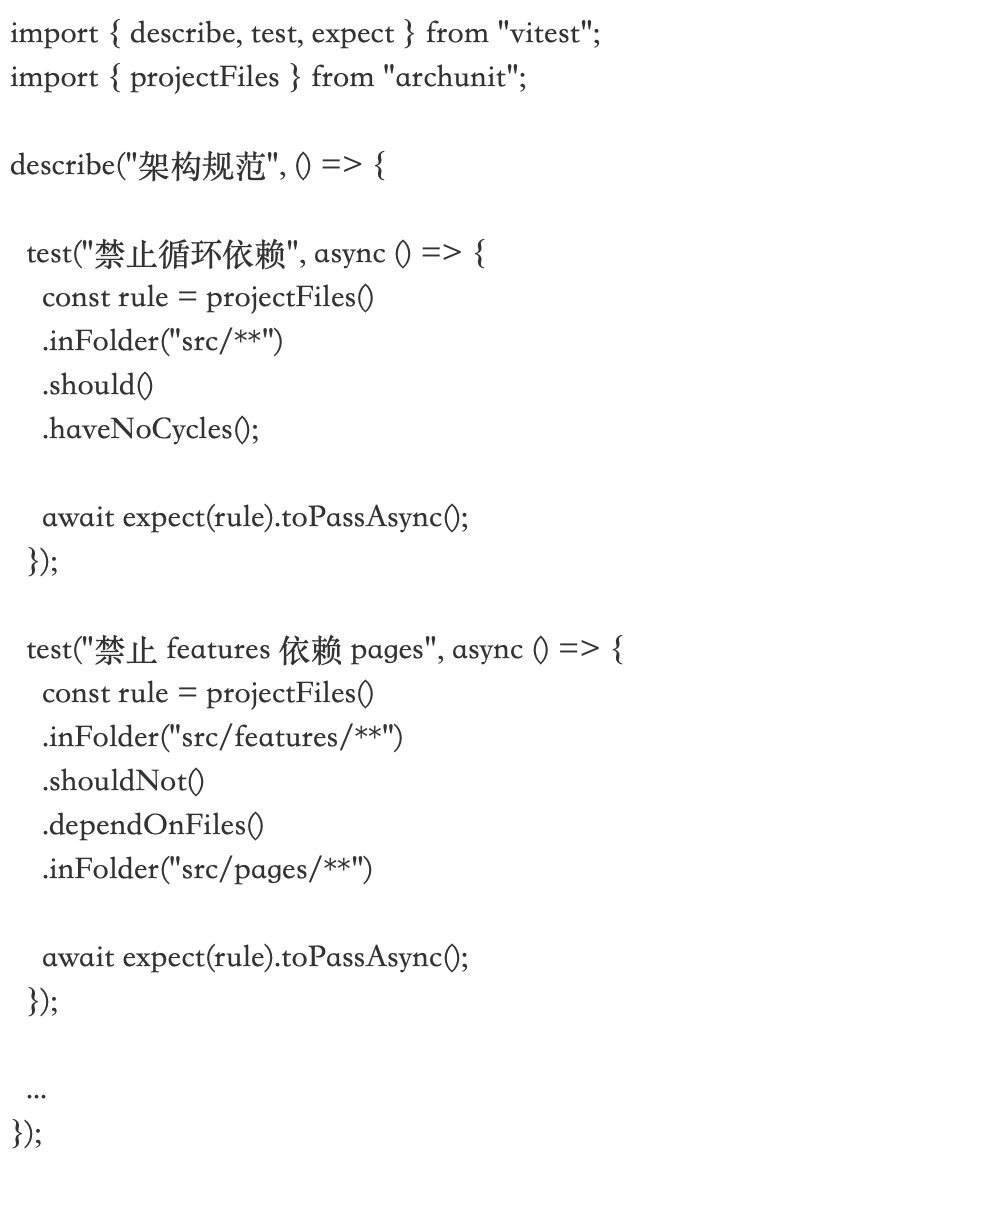
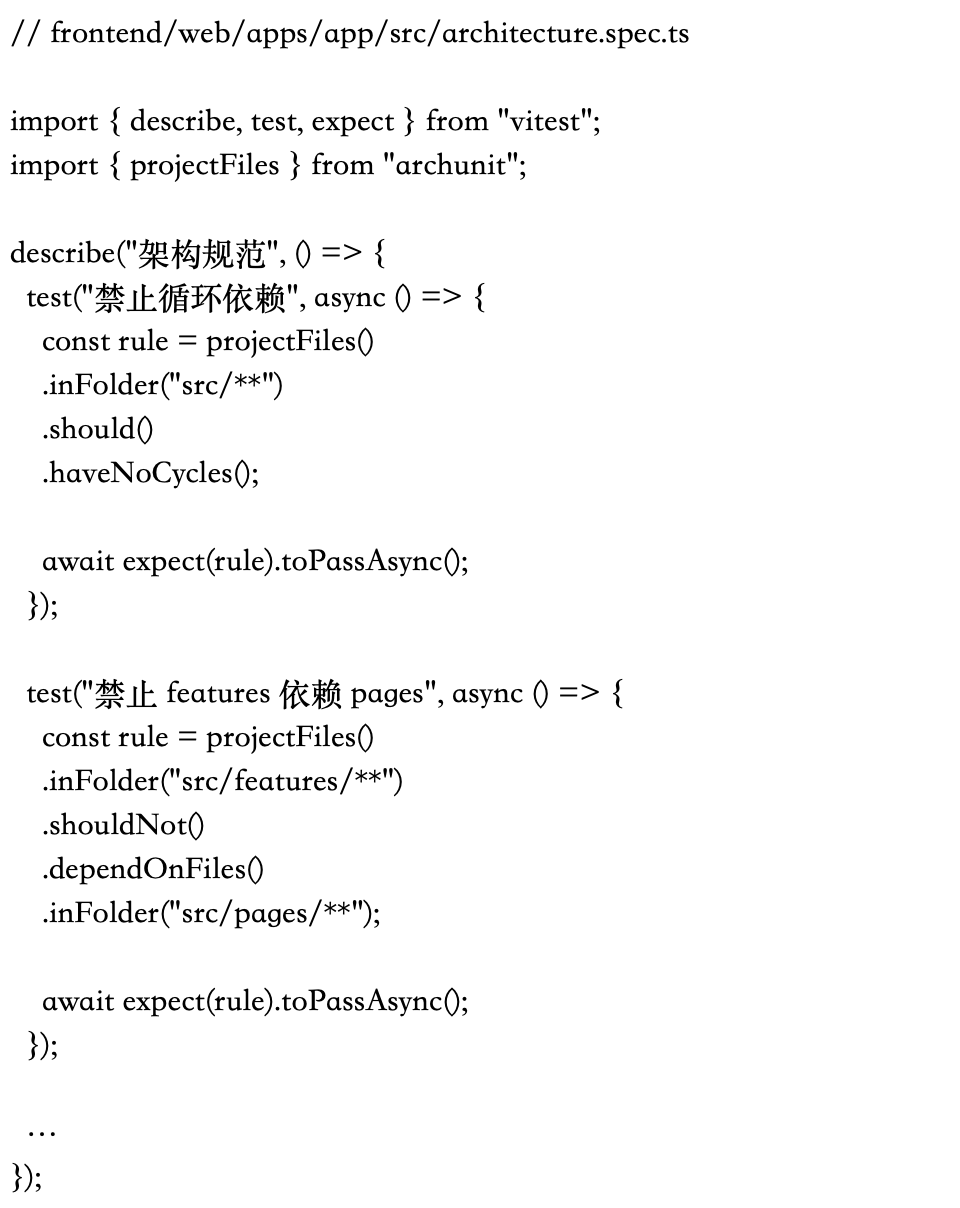
simple update

diff --git a/content/posts/古早软件开发法/index.md b/content/posts/古早软件开发法/index.md
@@ -1252,7 +1252,7 @@ pulumi update --yes
 
 ### 上下文画布
 
-在微服务设计中，有种设计模式叫[设计画布（Design Canvas）](https://dzone.com/articles/streamlined-microservice-design-in-practice)。它主要用来捕捉微服务必要的属性，而这些属性将有助于指导软件开发。但个人认为该模式最大的价值是，它能够暴露当前上下文的复杂度；以及帮助相关人员快速了解上下文状况。
+在微服务设计中，有种模式叫[设计画布（Design Canvas）](https://dzone.com/articles/streamlined-microservice-design-in-practice)。它主要用来捕捉微服务必要的属性，而这些属性将有助于指导软件开发。但个人认为该模式最大的价值是，它能够暴露当前上下文的复杂度；以及帮助相关人员快速了解上下文状况。
 
 虽然当前项目并非真正意义上的微服务，但其实从架构设计来说已经区别不大。只要愿意，完全可以用较低的成本就能够将其拆分为多个可独立部署的服务。只是以目前系统的复杂度来说，完全没有这个必要 —— 实际上大部分系统都没有这个必要。所以我才建议优先考虑模块化单体架构。不过即便如此，我们仍然可以从该模式中获益。例如，用它来记录复杂度和介绍上下文。
 